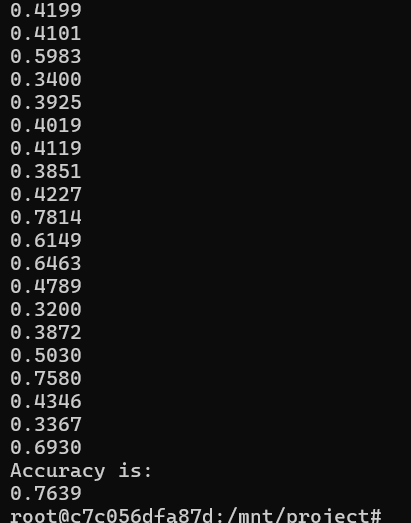
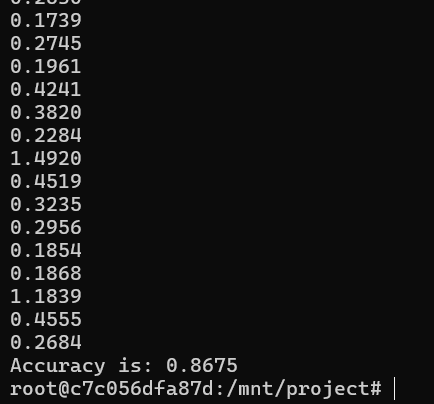
improve accuracy from 76% to 86% by changing batch size from 64 to 32

Changed region(s): [[0.0, 0.0, 0.9343, 1.0]]

diff --git a/README.md b/README.md
@@ -108,5 +108,5 @@ Run the neural network:
 ### Checking values
 ![checking value](docs/checking.png)
 
-### Accuracy 76%
+### Accuracy 86%
 ![accuracy](docs/accuracy.png)
